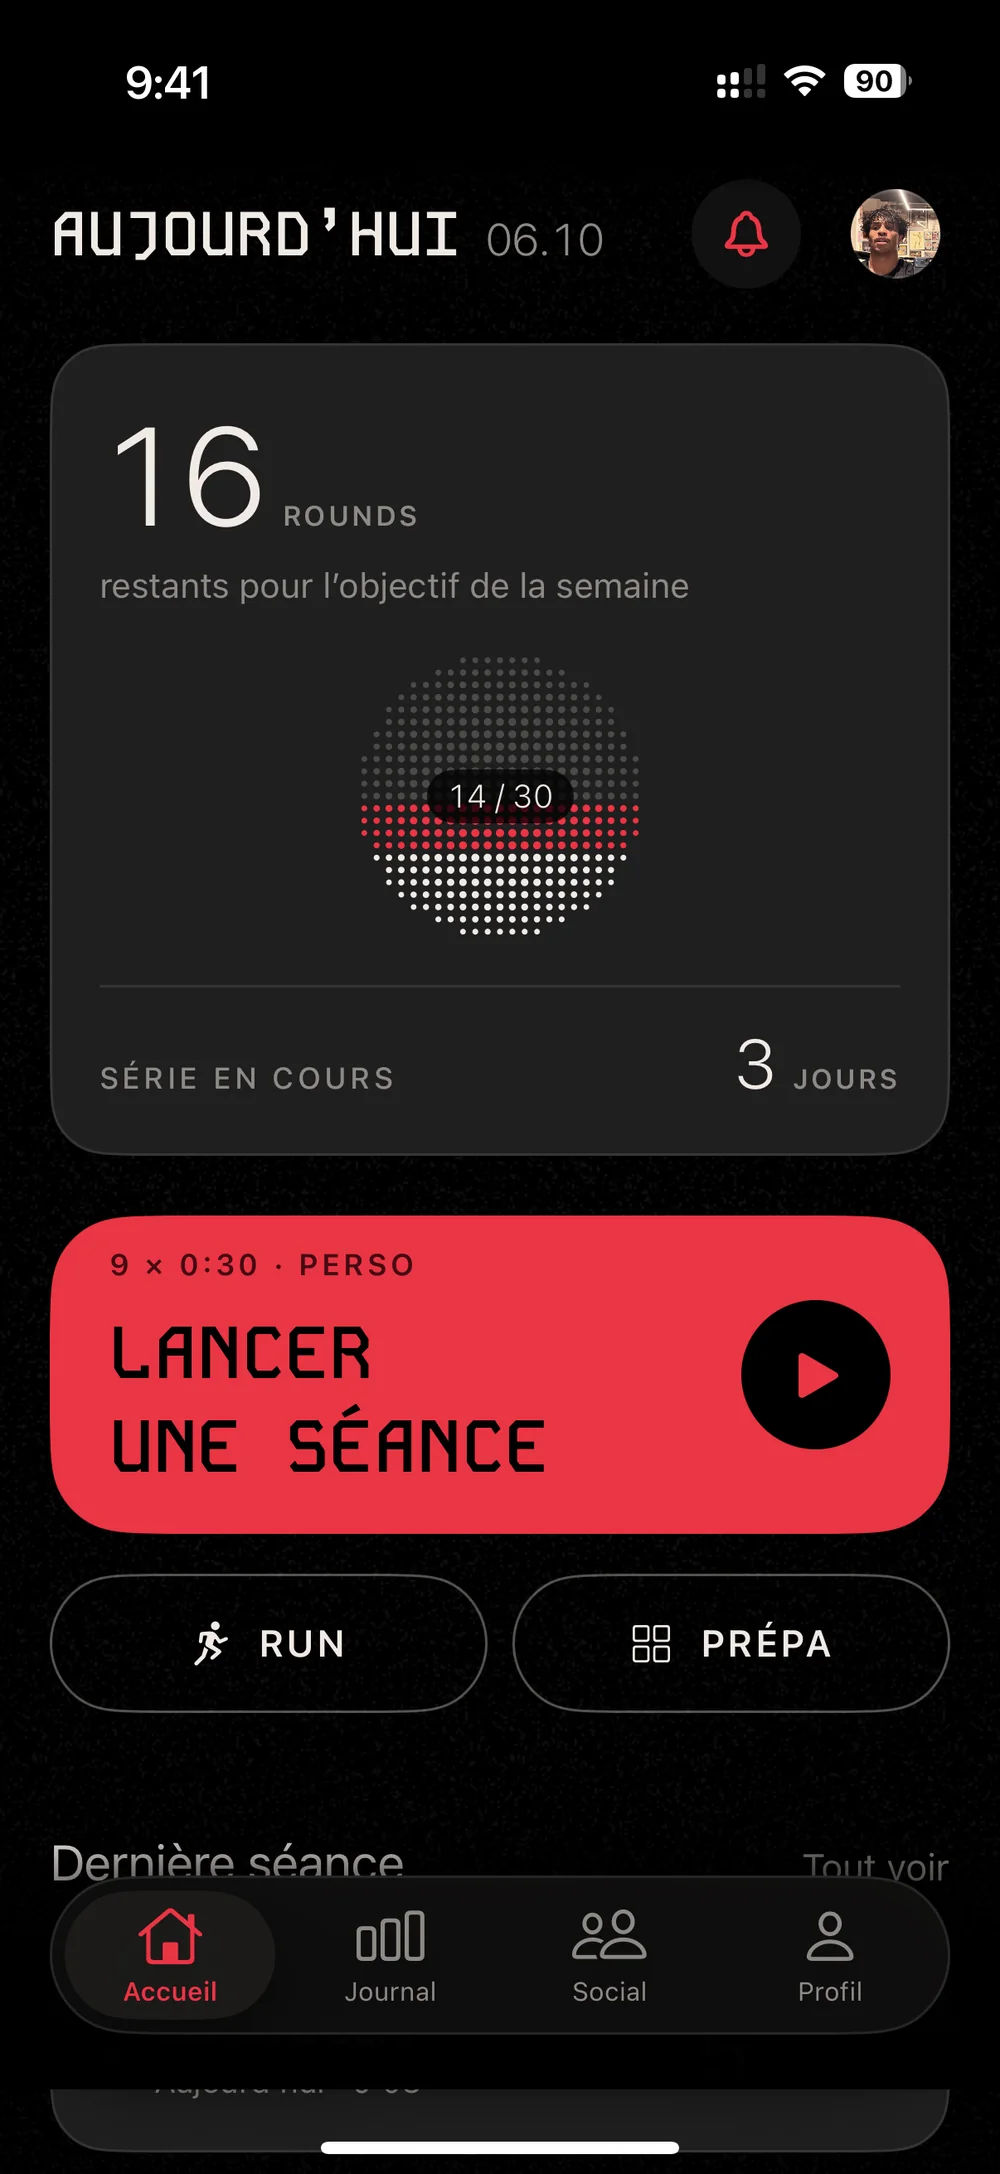
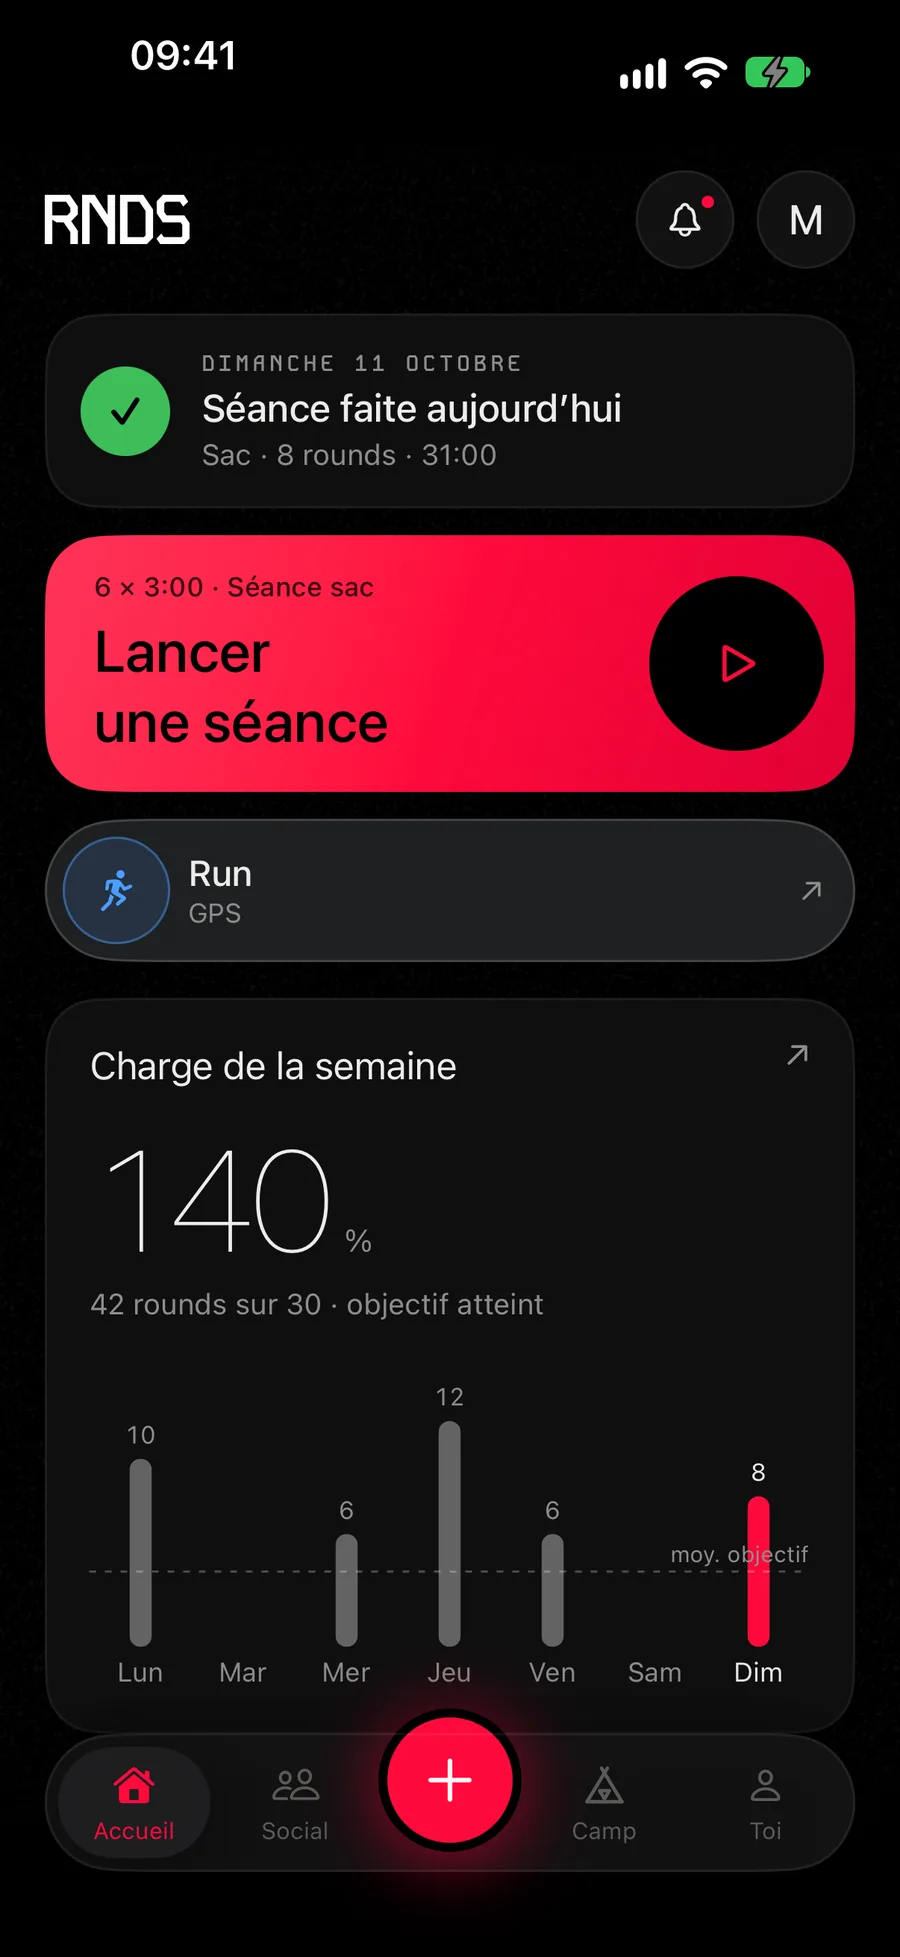
Site : nouvelles captures de l'app (octobre 2026)

diff --git a/index.html b/index.html
@@ -110,8 +110,8 @@
         <p class="label si-bientot" data-in style="--d:.3s">Sortie prochaine sur l’App Store</p>
       </div>
       <div class="iphone" data-in style="--d:.2s">
-        <div class="iphone__corps"><img src="img/app/accueil.webp" width="1000" height="2174" fetchpriority="high" alt="Écran d’accueil de RNDS : 16 rounds restants pour l’objectif de la semaine, série de 3 jours, bouton Lancer une séance."><span class="iphone__bouton"></span></div>
-        <p class="legende">Capture réelle du 6 octobre 2026<sup class="appel"><a href="#note-4" aria-label="Note 4">4</a></sup></p>
+        <div class="iphone__corps"><img src="img/app/accueil.webp" width="900" height="1957" fetchpriority="high" alt="Écran Accueil de RNDS : séance faite aujourd’hui, bouton Lancer une séance, accès au Run GPS et charge de la semaine à 140 %, avec la barre Accueil, Social, +, Camp et Toi."><span class="iphone__bouton"></span></div>
+        <p class="legende">Capture réelle du 11 octobre 2026<sup class="appel"><a href="#note-4" aria-label="Note 4">4</a></sup></p>
       </div>
     </div>
   </section>
@@ -120,7 +120,7 @@
   <section class="sec sec--carbone" id="timer">
     <div class="wrap timer">
       <div class="iphone" data-in>
-        <div class="iphone__corps"><img src="img/app/timer.webp" width="1000" height="2174" loading="lazy" decoding="async" alt="Le timer en cours : round 1 sur 9, 5 secondes restantes, cadran rouge à 60 graduations."><span class="iphone__bouton"></span></div>
+        <div class="iphone__corps"><img src="img/app/timer.webp" width="900" height="1957" loading="lazy" decoding="async" alt="Le timer en cours sur fond rouge : sparring, round 1 sur 6, 2:56 restantes dans le round, repos de 1:00 ensuite, ta musique continue."><span class="iphone__bouton"></span></div>
       </div>
       <div class="timer__droite">
         <div class="sec__tete" style="margin-bottom:0" data-in>
@@ -244,8 +244,8 @@
       </div>
       <div class="galerie">
         <figure data-in>
-          <div class="iphone"><div class="iphone__corps"><img src="img/app/prepa.webp" width="1000" height="2174" loading="lazy" decoding="async" alt="Écran Prépa : programme en cours, coach, sommeil, nutrition et eau, poids."><span class="iphone__bouton"></span></div></div>
-          <figcaption><b>L’écran Prépa</b><span>Ton programme, ton coach, ta dernière nuit, tes repas et ton poids.</span></figcaption>
+          <div class="iphone"><div class="iphone__corps"><img src="img/app/camp.webp" width="900" height="1957" loading="lazy" decoding="async" alt="Écran Camp : programmes (shadow, sac, cardio, prépa combat), coach, sommeil, nutrition et eau, poids."><span class="iphone__bouton"></span></div></div>
+          <figcaption><b>L’écran Camp</b><span>Tes programmes, ton coach, ta dernière nuit, tes repas et ton poids.</span></figcaption>
         </figure>
         <figure data-in style="--d:.06s">
           <div class="iphone"><div class="iphone__corps"><img src="img/app/sommeil.webp" width="1000" height="2174" loading="lazy" decoding="async" alt="Écran Sommeil : 9 h 46 la dernière nuit, bien récupéré, feu vert pour une séance intense."><span class="iphone__bouton"></span></div></div>
@@ -275,11 +275,11 @@
       </div>
       <div class="galerie galerie--3">
         <figure data-in>
-          <div class="iphone"><div class="iphone__corps"><img src="img/app/journal.webp" width="1000" height="2174" loading="lazy" decoding="async" alt="Écran Journal : séances, rounds et durée du mois, rounds par semaine, répartition par type."><span class="iphone__bouton"></span></div></div>
+          <div class="iphone"><div class="iphone__corps"><img src="img/app/journal.webp" width="900" height="1957" loading="lazy" decoding="async" alt="Écran Journal : filtres par type, 8 séances et 42 rounds cette semaine, record et moyenne hebdo, rounds par semaine face à l’objectif de 30."><span class="iphone__bouton"></span></div></div>
           <figcaption><b>Journal</b><span>Tes rounds de la semaine face à ton objectif, et le total du mois.</span></figcaption>
         </figure>
         <figure data-in style="--d:.06s">
-          <div class="iphone"><div class="iphone__corps"><img src="img/app/defis.webp" width="1000" height="2174" loading="lazy" decoding="async" alt="Écran Défis : 5 jours sur 7 à 40 %, 100 rounds en 7 jours, 10 km de prépa."><span class="iphone__bouton"></span></div></div>
+          <div class="iphone"><div class="iphone__corps"><img src="img/app/social.webp" width="900" height="1957" loading="lazy" decoding="async" alt="Écran Social : onglets Fil, Classement et Défis, duel en cours à 42 contre 23, et une séance de sac partagée dans le fil avec sa courbe cardio et le bouton Respect."><span class="iphone__bouton"></span></div></div>
           <figcaption><b>Défis</b><span>Des défis comme 5 jours sur 7 ou 100 rounds en 7 jours, seul ou en duel avec tes partenaires de salle.</span></figcaption>
         </figure>
         <figure data-in style="--d:.12s">
@@ -404,7 +404,7 @@
         <li id="note-1">Apple Watch sous watchOS 26 nécessaire pour le cardio au poignet. Sans montre, une ceinture cardio Bluetooth compatible fait l’affaire.</li>
         <li id="note-2">L’estimation se fait sur l’iPhone&nbsp;: par le modèle d’Apple quand l’appareil le permet, sinon par reconnaissance d’image et une base d’aliments. Elle reste indicative.</li>
         <li id="note-3">Les conseils de sommeil et d’entraînement ne sont pas un avis médical.</li>
-        <li id="note-4">Captures réelles de l’app, prises sur iPhone le 6 octobre 2026. Seules l’heure et la musique en cours ont été masquées.</li>
+        <li id="note-4">Captures réelles de l’app, prises sur iPhone les 6 et 11 octobre 2026. Celles du 11 octobre (accueil, timer, Camp, journal, Social) montrent des données de démonstration. Seules l’heure et la musique en cours ont été masquées.</li>
         <li id="note-5">Vidéo de la bannière&nbsp;: NXTLVL Media.</li>
       </ol>
       <p class="pied__marques">Apple, le logo Apple, Apple Watch, iPhone et Santé sont des marques d’Apple Inc., déposées aux États-Unis et dans d’autres pays. App Store est une marque de service d’Apple Inc.</p>

diff --git a/en/index.html b/en/index.html
@@ -110,8 +110,8 @@
         <p class="label si-bientot" data-in style="--d:.3s">Coming soon to the App Store</p>
       </div>
       <div class="iphone" data-in style="--d:.2s">
-        <div class="iphone__corps"><img src="/img/app/accueil.webp" width="1000" height="2174" fetchpriority="high" alt="RNDS home screen, in French: 16 rounds left for the weekly goal, a 3-day streak and the Start a Session button."><span class="iphone__bouton"></span></div>
-        <p class="legende">Real screenshot, October 6, 2026<sup class="appel"><a href="#note-4" aria-label="Note 4">4</a></sup></p>
+        <div class="iphone__corps"><img src="/img/app/accueil.webp" width="900" height="1957" fetchpriority="high" alt="RNDS Home screen, in French: today’s session done, the Start a Session button, GPS Run and this week’s load at 140%, with the Home, Social, +, Camp and You tab bar."><span class="iphone__bouton"></span></div>
+        <p class="legende">Real screenshot, October 11, 2026<sup class="appel"><a href="#note-4" aria-label="Note 4">4</a></sup></p>
       </div>
     </div>
   </section>
@@ -120,7 +120,7 @@
   <section class="sec sec--carbone" id="timer">
     <div class="wrap timer">
       <div class="iphone" data-in>
-        <div class="iphone__corps"><img src="/img/app/timer.webp" width="1000" height="2174" loading="lazy" decoding="async" alt="The timer running: round 1 of 9, 5 seconds left, red dial with 60 ticks."><span class="iphone__bouton"></span></div>
+        <div class="iphone__corps"><img src="/img/app/timer.webp" width="900" height="1957" loading="lazy" decoding="async" alt="The timer running on a red screen, in French: sparring, round 1 of 6, 2:56 left in the round, 1:00 rest next, your music keeps playing."><span class="iphone__bouton"></span></div>
       </div>
       <div class="timer__droite">
         <div class="sec__tete" style="margin-bottom:0" data-in>
@@ -244,8 +244,8 @@
       </div>
       <div class="galerie">
         <figure data-in>
-          <div class="iphone"><div class="iphone__corps"><img src="/img/app/prepa.webp" width="1000" height="2174" loading="lazy" decoding="async" alt="Prep screen, in French: current program, coach, sleep, nutrition and water, weight."><span class="iphone__bouton"></span></div></div>
-          <figcaption><b>The Prep screen</b><span>Your current program, your coach, last night’s sleep, your meals and your weight.</span></figcaption>
+          <div class="iphone"><div class="iphone__corps"><img src="/img/app/camp.webp" width="900" height="1957" loading="lazy" decoding="async" alt="Camp screen, in French: programs (shadow, bag, cardio, fight prep), coach, sleep, nutrition and water, weight."><span class="iphone__bouton"></span></div></div>
+          <figcaption><b>The Camp screen</b><span>Your programs, your coach, last night’s sleep, your meals and your weight.</span></figcaption>
         </figure>
         <figure data-in style="--d:.06s">
           <div class="iphone"><div class="iphone__corps"><img src="/img/app/sommeil.webp" width="1000" height="2174" loading="lazy" decoding="async" alt="Sleep screen, in French: 9 h 46 last night, well recovered, green light for an intense session."><span class="iphone__bouton"></span></div></div>
@@ -275,11 +275,11 @@
       </div>
       <div class="galerie galerie--3">
         <figure data-in>
-          <div class="iphone"><div class="iphone__corps"><img src="/img/app/journal.webp" width="1000" height="2174" loading="lazy" decoding="async" alt="Journal screen, in French: sessions, rounds and time this month, rounds per week, breakdown by type."><span class="iphone__bouton"></span></div></div>
+          <div class="iphone"><div class="iphone__corps"><img src="/img/app/journal.webp" width="900" height="1957" loading="lazy" decoding="async" alt="Journal screen, in French: filters by type, 8 sessions and 42 rounds this week, best week and weekly average, rounds per week against a goal of 30."><span class="iphone__bouton"></span></div></div>
           <figcaption><b>Journal</b><span>Your rounds this week against your goal, and your totals for the month.</span></figcaption>
         </figure>
         <figure data-in style="--d:.06s">
-          <div class="iphone"><div class="iphone__corps"><img src="/img/app/defis.webp" width="1000" height="2174" loading="lazy" decoding="async" alt="Challenges screen, in French: 5 days out of 7 at 40%, 100 rounds in 7 days, 10 km prep."><span class="iphone__bouton"></span></div></div>
+          <div class="iphone"><div class="iphone__corps"><img src="/img/app/social.webp" width="900" height="1957" loading="lazy" decoding="async" alt="Social screen, in French: Feed, Leaderboard and Challenges tabs, a head-to-head at 42 to 23, and a bag session shared in the feed with its heart-rate curve and the Respect button."><span class="iphone__bouton"></span></div></div>
           <figcaption><b>Challenges</b><span>Challenges like 5 days out of 7 or 100 rounds in 7 days, solo or head-to-head with your gym partners.</span></figcaption>
         </figure>
         <figure data-in style="--d:.12s">
@@ -404,7 +404,7 @@
         <li id="note-1">Requires an Apple Watch with watchOS 26 for heart rate on the wrist. Without a watch, a compatible Bluetooth heart rate strap does the job.</li>
         <li id="note-2">The estimate is made on the iPhone: by Apple’s on-device model when the device supports it, otherwise by image recognition and a food database. It’s only an estimate.</li>
         <li id="note-3">Sleep and training tips are not medical advice.</li>
-        <li id="note-4">Real screenshots of the app, taken on iPhone on October 6, 2026, with the app set to French. Only the time and the music playing have been hidden.</li>
+        <li id="note-4">Real screenshots of the app, taken on iPhone on October 6 and 11, 2026, with the app set to French. The October 11 ones (home, timer, Camp, journal, Social) show demo data. Only the time and the music playing have been hidden.</li>
         <li id="note-5">Hero video: NXTLVL Media.</li>
       </ol>
       <p class="pied__marques">Apple, the Apple logo, Apple Watch, iPhone and Health are trademarks of Apple Inc., registered in the U.S. and other countries. App Store is a service mark of Apple Inc.</p>
